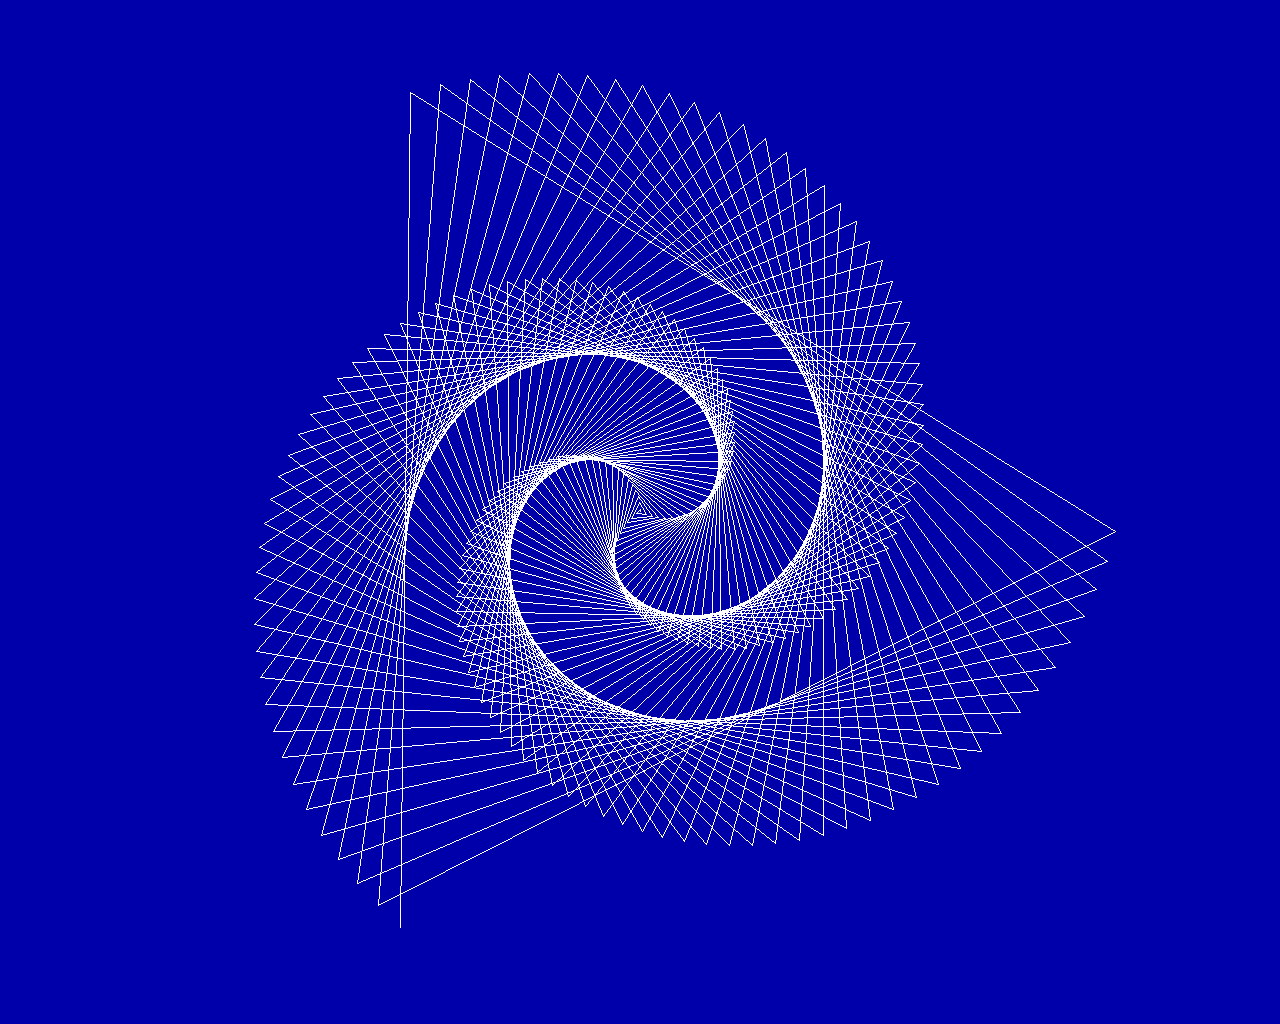
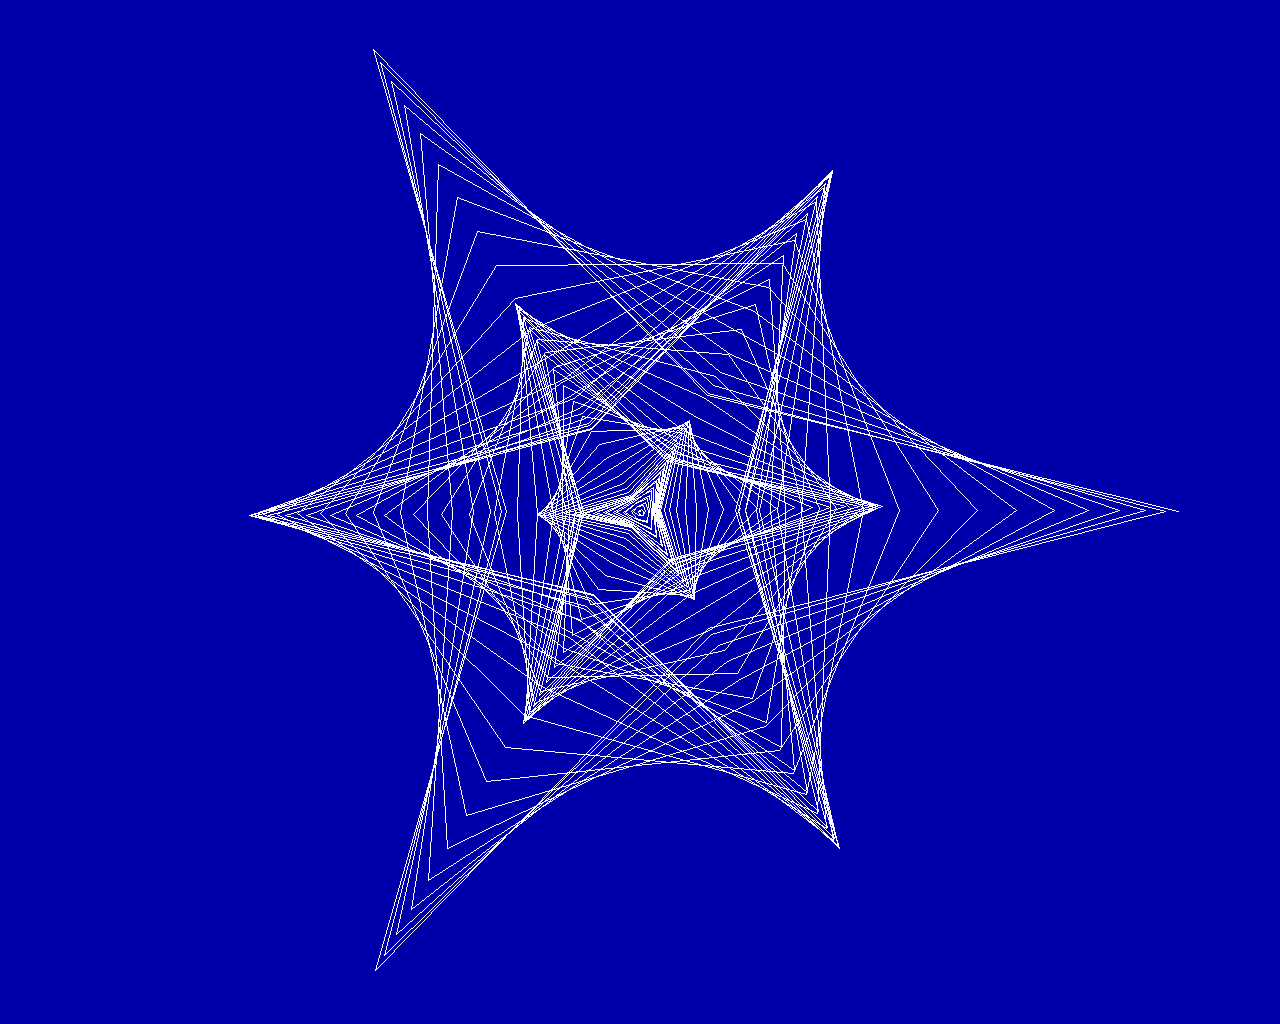
a pretty flower

Changed region(s): [[0.1875, 0.0938, 0.875, 0.9062], [0.75, 0.6875, 0.7812, 0.7188], [0.4375, 0.1562, 0.4688, 0.1875]]

diff --git a/examples/moslets/flower.py b/examples/moslets/flower.py
@@ -102,14 +102,14 @@ def flower(petals, vectors, depth, periods, shrink, clock_prime, clock_petal,
     return coords
 
 if __name__ == "__main__":
-    petals = 2.97
-    vectors = 1
-    depth = 0.0
-    periods = 75
-    shrink = 1.0
-    clock_prime = -1.0
+    petals = 3.03
+    vectors = 1.98
+    depth = 0.6
+    periods = 66
+    shrink = 0.8
+    clock_prime = 1.0
     clock_petal = 1.0
-    theta_prime = 240
+    theta_prime = 0.0
     theta_petal = 0.0
     radius_scale = 480
     center_x = 640
